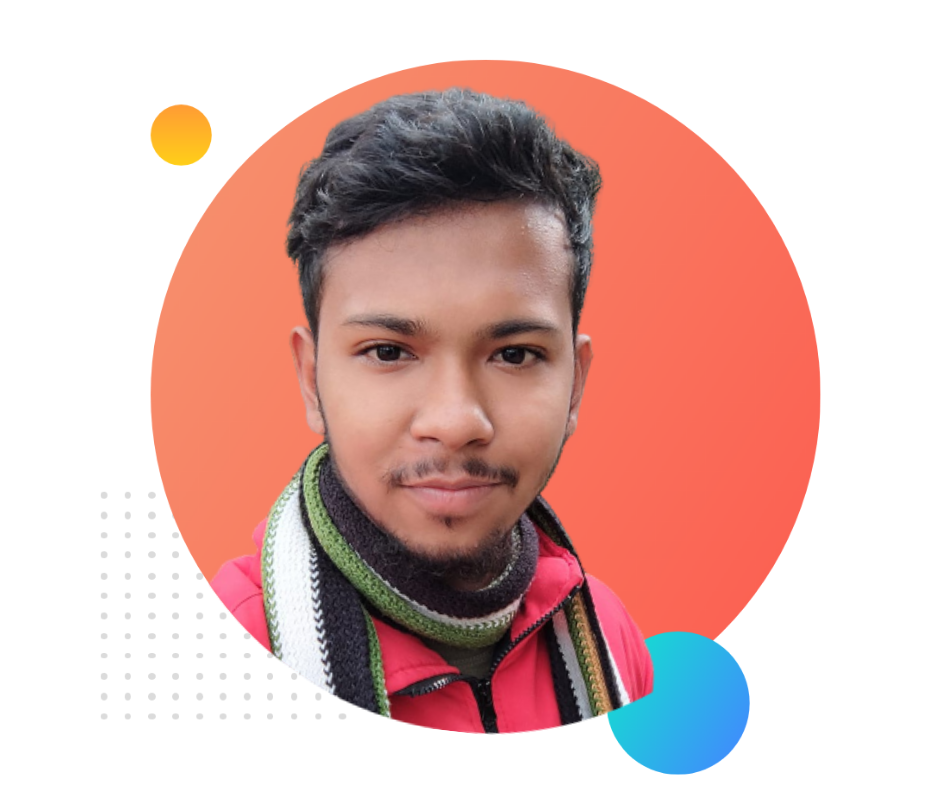
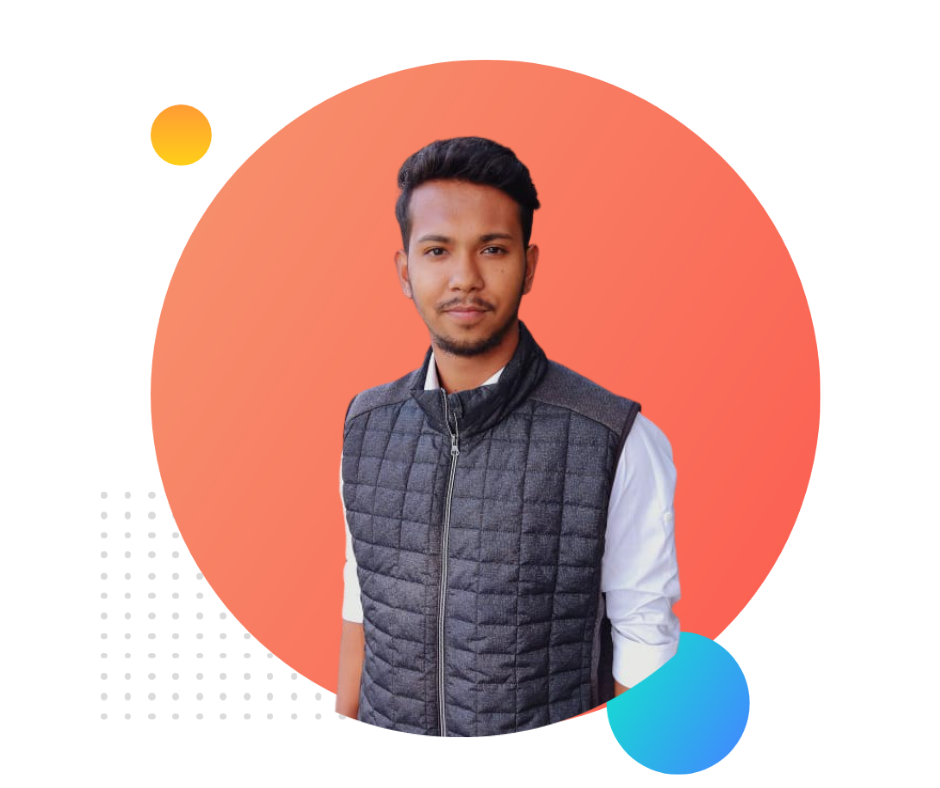
add section

Changed region(s): [[0.216, 0.0914, 0.7404, 0.9442]]

diff --git a/index.html b/index.html
@@ -11,7 +11,7 @@
     <link rel="stylesheet" href="style.css">
 </head>
 <body>
-   <section>
+   <section class="top-banner">
     <div class="half-width">
         <h1>Welcome To</h1>
         <h1> <span class="name-color">Ifty Sarkar</span> world</h1>
@@ -23,6 +23,17 @@
     <div class="half-width">
         <img src="images/ifty.png" alt="Ifty picture">
     </div>
+   </section>
+   <section class="dream">
+       <div class="half-width">
+        <img src="images/ifty2.png" alt="ifty2">
+       </div>
+       <div class="half-width">
+           <h1>Dream Big</h1>
+           <h2>Become a web developer</h2>
+           <p>I already learned the basic HTML and CSS. I can build any simple website. I can even teach my grandma how to make simple website. My goal is to build 3 websites and learn advanced topics.</p>
+           <a class="hire-link" target="blank" href="#">DOWNLOAD RESUME</a>
+       </div>
    </section>
 </body>
 </html>

diff --git a/style.css b/style.css
@@ -1,5 +1,6 @@
 body{
     font-family: 'Poppins', sans-serif;
+    margin: 0%;
 }
 h1{
     font-size: 50px;
@@ -9,6 +10,7 @@ h1{
 }
 section{
     display: flex;
+    margin-bottom: 150px;
 }
 .half-width{
     margin-left: 5%;
@@ -24,4 +26,13 @@ section{
     color: white;
     font-weight: 600px;
     border-radius: 5px;
+}
+.top-banner{
+    background-image: url(images/top-banner.png);
+    background-repeat: no-repeat;
+}
+.dream{
+    background-image: url(images/dream-bg.png);
+    background-repeat: no-repeat;
+    background-position: right;
 }
